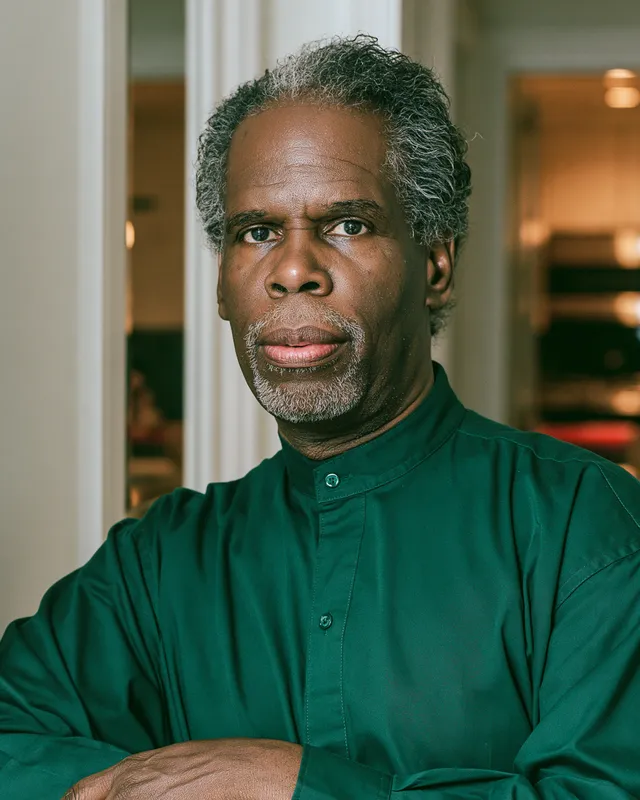
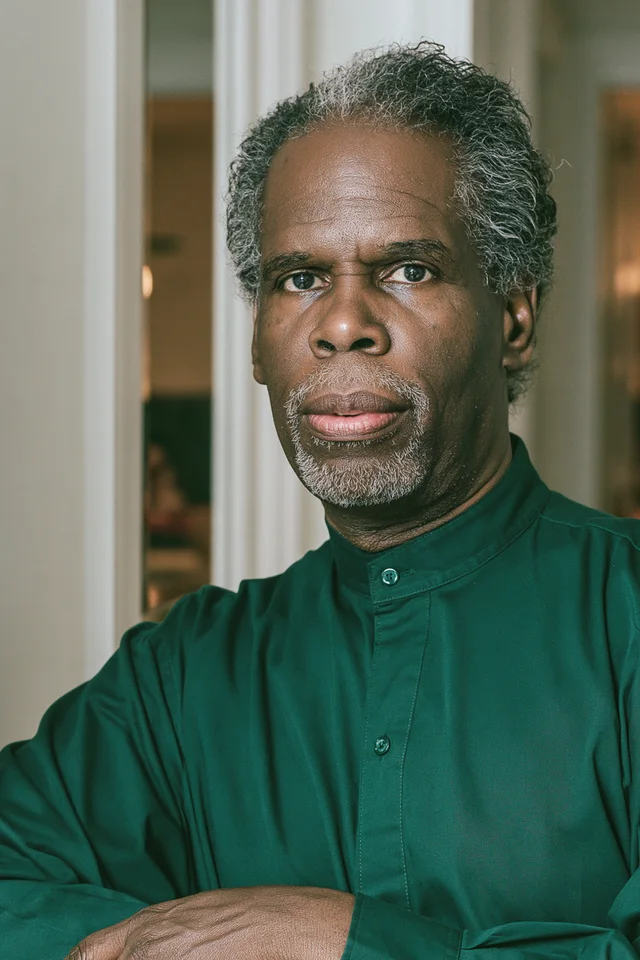
feat(marketing): rebuild the brief list as four laid-out prints
Drops the split-flap date chips and the green search grids. Each job is now a full-width row with the photograph alternating sides, cut to its own proportion and width and set at a slight angle. The search count carries the work as a display numeral sized off the count itself, with the arithmetic and the result beside it.

diff --git a/apps/marketing/src/lib/components/QueryGrid.svelte b/apps/marketing/src/lib/components/QueryGrid.svelte
@@ -6,17 +6,40 @@ import { MANUAL_S, SCENARIOS, TOTALS, byHandHours } from '$lib/scenarios'
  *  apart before either number is read. */
 const nf = new Intl.NumberFormat('en-GB')
 const hours = byHandHours(TOTALS.queries)
+
+/** No two photographs are the same size or proportion, and each sits at its
+ *  own angle, the way prints do when they have been put down on a desk rather
+ *  than mounted. Proportion follows the job behind it: five airports on one
+ *  date is a tall narrow search, two cabins across a week is a wide one. The
+ *  crops are composed at these ratios in the source files rather than squeezed
+ *  from one master, so no one is cut through the chin to make a shape. */
+const SHAPE = {
+  gateway: { ar: '2 / 3', w: '17rem', rot: '-1.6deg', iw: 640, ih: 960 },
+  ski: { ar: '1 / 1', w: '21rem', rot: '1.1deg', iw: 800, ih: 800 },
+  cabin: { ar: '5 / 4', w: '24rem', rot: '-0.7deg', iw: 900, ih: 720 },
+  holidays: { ar: '4 / 5', w: '19rem', rot: '1.9deg', iw: 720, ih: 900 },
+} as const
+const FALLBACK = { ar: '4 / 5', w: '19rem', rot: '0deg', iw: 720, ih: 900 }
+const shapeOf = (id: string) => SHAPE[id as keyof typeof SHAPE] ?? FALLBACK
 </script>
 
 <div class="jobs">
   {#each SCENARIOS as s, i (s.id)}
-    <article class="job" class:flip={i % 2 === 1} style:--n={s.queries}>
+    {@const sh = shapeOf(s.id)}
+    <article
+      class="job"
+      class:flip={i % 2 === 1}
+      style:--n={s.queries}
+      style:--ar={sh.ar}
+      style:--w={sh.w}
+      style:--rot={sh.rot}
+    >
       <img
         class="who"
         src="/img/people/{s.id}.webp"
         alt=""
-        width="720"
-        height="900"
+        width={sh.iw}
+        height={sh.ih}
         loading="lazy"
       />
 
@@ -25,15 +48,20 @@ const hours = byHandHours(TOTALS.queries)
         <blockquote>{s.ask}</blockquote>
         <p class="route">{s.route}</p>
 
-        <p class="tally">
-          <b>{s.queries}</b>
-          <span>searches</span>
-        </p>
-        <p class="sub">
-          {s.grid.rows}
-          {s.grid.rowKind} × {s.grid.cols}
-          {s.grid.cols === 1 ? 'date' : 'dates'} · {nf.format(s.options)} options · {s.seconds} seconds
-        </p>
+        <div class="tally">
+          <p class="count">
+            <b>{s.queries}</b>
+            <span>searches</span>
+          </p>
+          <div class="of">
+            <p class="shape">
+              {s.grid.rows}
+              {s.grid.rowKind} × {s.grid.cols}
+              {s.grid.cols === 1 ? 'date' : 'dates'}
+            </p>
+            <p class="sub">{nf.format(s.options)} options · {s.seconds} seconds</p>
+          </div>
+        </div>
       </div>
     </article>
   {/each}
@@ -58,12 +86,12 @@ const hours = byHandHours(TOTALS.queries)
      rather than four of the same thing. */
   .job {
     display: grid;
-    grid-template-columns: 19rem minmax(0, 1fr);
+    grid-template-columns: var(--w) minmax(0, 1fr);
     gap: var(--space-5);
     align-items: center;
   }
   .job.flip {
-    grid-template-columns: minmax(0, 1fr) 19rem;
+    grid-template-columns: minmax(0, 1fr) var(--w);
   }
   .who {
     grid-column: 1;
@@ -71,15 +99,16 @@ const hours = byHandHours(TOTALS.queries)
     display: block;
     width: 100%;
     height: auto;
-    aspect-ratio: 4 / 5;
+    aspect-ratio: var(--ar);
     object-fit: cover;
+    object-position: 50% 42%;
     border-radius: var(--radius);
+    rotate: var(--rot);
+    box-shadow: var(--shadow-lg);
   }
   .body {
     grid-column: 2;
     grid-row: 1;
-    display: grid;
-    gap: var(--space-2);
     align-content: center;
     max-width: 34rem;
   }
@@ -99,12 +128,15 @@ const hours = byHandHours(TOTALS.queries)
     color: var(--color-muted);
   }
   blockquote {
-    margin: 0;
+    margin: 0.5rem 0 0;
     font-family: var(--font-display);
     font-size: clamp(1.35rem, 2.2vw, 1.9rem);
     line-height: 1.28;
     letter-spacing: -0.012em;
     text-wrap: pretty;
+    /* hang the opening quote in the margin so the first word starts on the
+       same line as the date above it and the route below */
+    text-indent: -0.42em;
   }
   blockquote::before {
     content: "“";
@@ -113,6 +145,7 @@ const hours = byHandHours(TOTALS.queries)
     content: "”";
   }
   .route {
+    margin-top: 0.7rem;
     font-size: 0.92rem;
     line-height: 1.5;
     color: var(--color-muted);
@@ -121,24 +154,47 @@ const hours = byHandHours(TOTALS.queries)
   /* The numeral carries the work: its size comes off the search count, so the
      five-search job and the twenty-eight-search job are different weights on
      the page before you read either figure. */
+  /* The number is the subject and the two lines beside it are its predicate:
+     what the searches were made of, then what they came back with. The unit
+     sits under the numeral in the same caps as the date at the top, so the
+     block is bracketed by the utility face at both ends. */
   .tally {
-    display: flex;
-    align-items: baseline;
-    gap: 0.6rem;
-    margin-top: var(--space-2);
+    display: grid;
+    grid-template-columns: auto minmax(0, 1fr);
+    column-gap: var(--space-3);
+    align-items: center;
+    margin-top: var(--space-4);
   }
-  .tally b {
+  .count {
+    display: grid;
+    justify-items: start;
+    gap: 0.3rem;
+  }
+  .count b {
     font-family: var(--font-display);
     font-stretch: var(--display-wide);
     font-weight: 600;
     font-size: calc(3.2rem + var(--n) * 0.13rem);
-    line-height: 0.8;
+    line-height: 0.78;
     color: var(--color-primary);
     font-variant-numeric: lining-nums tabular-nums;
   }
-  .tally span {
-    font-size: 1rem;
+  .count span {
+    font-family: var(--font-mono);
+    font-size: 0.68rem;
+    letter-spacing: 0.14em;
+    text-transform: uppercase;
     color: var(--color-muted);
+  }
+  .of {
+    display: grid;
+    gap: 0.3rem;
+    border-left: 1px solid var(--color-border);
+    padding-left: var(--space-3);
+  }
+  .shape {
+    font-size: 0.95rem;
+    color: var(--color-text);
   }
   .sub {
     font-family: var(--font-mono);
